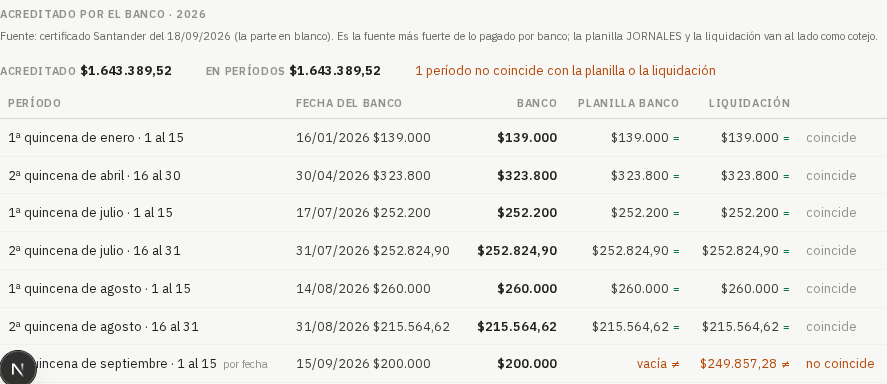
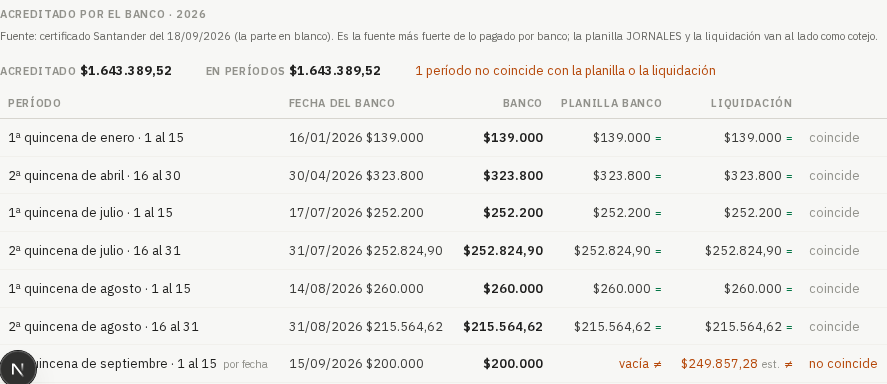
haberes: la final con un BANCO anterior sin acreditar queda a confirmar; las mutaciones ahora caen
Auditoría del 18/09 (D1): cuatro «finales» (Aguirre, Quiroga M. y Santander W.
el 09/04; Videla el 30/06) tenían en el último bloque de la planilla con BANCO
un giro que el banco nunca acreditó solo. La evidencia decía «ninguna fila de
BANCO lo explica» y era falsa. Regla nueva, en segunda pasada: si el último
bloque con BANCO anterior al pago no tiene acreditación propia, el pago puede
incluir esa quincena más la final → «a_confirmar» con la fila nombrada. No se
parte el importe: es decisión del dueño. Recargado: 127 filas, mismo total;
ahora 8 finales (548.871,86) y 8 a confirmar (2.377.208,44).

Siete mutaciones que sobrevivían tienen test que las hace caer: tolerancia «al
peso» (lib y pantalla), control de cantidad de verificarTotal, persona_id de la
persona hallada, borrado de la carga vieja (pg-test contra la base real dentro
de una transacción, porque la base falsa no lee el SQL), CUIL repetido en el
padrón, validación de la fecha del CSV y lote que contaba mensuales.

Pantalla: la cifra de la liquidación que la Retribución muestra como estimada
lleva «est.» también en el bloque del banco. El cargador lee la base en serie:
una conexión por vez.

diff --git a/echegaray-os/tests/haberes-banco-legajo.spec.ts b/echegaray-os/tests/haberes-banco-legajo.spec.ts
@@ -4,10 +4,12 @@
 // (`datos/haberes/…csv`, que suma el IMPORTE TOTAL del pie), no de la tabla que la pantalla lee. Si el
 // cargador perdiera, duplicara o reasignara una acreditación, esto se pone rojo.
 //
-// Cuatro legajos: un jornalero activo con muchos pagos (Agüero), un jefe de obra mensual (Maldonado), un
-// inactivo con liquidación final y sin línea de liquidación en su final (Santander Walter) y un inactivo
-// sin fecha de egreso con un pago «a confirmar» (Navarro). Ninguna de las 32 personas falta en el padrón,
-// así que no hay legajo de «fuera del padrón» que abrir: eso lo prueba el test del cargador.
+// Cinco legajos: un jornalero activo con muchos pagos (Agüero, con la 1ª de septiembre estimada en la
+// Liquidación), un jefe de obra mensual (Maldonado), un inactivo con liquidación final (Bazán), un inactivo
+// cuyo pago único quedó «a confirmar» porque el último bloque con BANCO no tiene acreditación propia
+// (Santander Walter, D1 de la auditoría del 18/09) y un inactivo sin fecha de egreso con un pago «a confirmar»
+// (Navarro). Ninguna de las 32 personas falta en el padrón, así que no hay legajo de «fuera del padrón» que
+// abrir: eso lo prueba el test del cargador.
 import { test, expect } from '@playwright/test'
 import { readFileSync, mkdirSync } from 'node:fs'
 import { ADMIN, JEFE, servicio, entrar, pedir } from './util/identidades'
@@ -27,10 +29,11 @@ const pesos = (c: number): string => {
 const fechaCorta = (iso: string) => `${iso.slice(8, 10)}/${iso.slice(5, 7)}/${iso.slice(0, 4)}`
 
 const CASOS = [
-  { cuil: '20294271067', archivo: 'aguero-jornalero-activo', finales: 0, aConfirmar: 0 },
-  { cuil: '20359232668', archivo: 'maldonado-jefe-mensual', finales: 0, aConfirmar: 0 },
-  { cuil: '20258303939', archivo: 'santander-inactivo-final', finales: 1, aConfirmar: 0 },
-  { cuil: '20399947511', archivo: 'navarro-inactivo-a-confirmar', finales: 0, aConfirmar: 1 },
+  { cuil: '20294271067', archivo: 'aguero-jornalero-activo', finales: 0, aConfirmar: 0, estimadas: 1 },
+  { cuil: '20359232668', archivo: 'maldonado-jefe-mensual', finales: 0, aConfirmar: 0, estimadas: 0 },
+  { cuil: '20380773091', archivo: 'bazan-inactivo-final', finales: 1, aConfirmar: 0, estimadas: 0 },
+  { cuil: '20258303939', archivo: 'santander-inactivo-a-confirmar-d1', finales: 0, aConfirmar: 1, estimadas: 0 },
+  { cuil: '20399947511', archivo: 'navarro-inactivo-a-confirmar', finales: 0, aConfirmar: 1, estimadas: 0 },
 ]
 
 test.describe('legajo · acreditado por el banco', () => {
@@ -71,6 +74,16 @@ test.describe('legajo · acreditado por el banco', () => {
       }
       await expect(page.getByTestId('haberes-banco-finales-fila')).toHaveCount(caso.finales)
       await expect(page.getByTestId('haberes-banco-a-confirmar-fila')).toHaveCount(caso.aConfirmar)
+      // La liquidación estimada se rotula «est.» como en la tabla de arriba (Agüero, 1ª de septiembre): cada
+      // fila del bloque con «est.» tiene su fila de Retribución con «est.». No al revés: la tabla de arriba
+      // también estima quincenas que el banco todavía no pagó, y ésas no están en el bloque.
+      const est = page.getByTestId('haberes-banco-liquidacion-est')
+      await expect(est).toHaveCount(caso.estimadas)
+      for (const celda of await est.all()) {
+        const desde = await celda.locator('xpath=ancestor::tr').getAttribute('data-desde')
+        const arriba = page.getByTestId('retribucion-fila').filter({ has: page.locator(`a[href$="quincena=${desde}"]`) })
+        await expect(arriba, `la fila ${desde} de Retribución no dice «est.»`).toContainText('est.')
+      }
 
       await bloque.scrollIntoViewIfNeeded()
       await bloque.screenshot({ path: `qa-shots/haberes-banco/${caso.archivo}.png` })

diff --git a/echegaray-os/src/features/administracion/services/haberesDelBanco.test.ts b/echegaray-os/src/features/administracion/services/haberesDelBanco.test.ts
@@ -1,6 +1,6 @@
 import { test } from 'node:test'
 import assert from 'node:assert/strict'
-import { armarHaberesDelBanco, rotuloDelPeriodo, type AcreditacionDelBanco } from './haberesDelBanco.ts'
+import { alPeso, armarHaberesDelBanco, conLiquidacionEstimada, rotuloDelPeriodo, type AcreditacionDelBanco } from './haberesDelBanco.ts'
 
 // LOS DEFECTOS QUE ESTOS TESTS ATRAPAN:
 //  1. Que la final se sume a una quincena (regla del dueño: no se considera).
@@ -92,4 +92,42 @@ test('sin permiso no hay filas ni totales, y la bandera lo dice', () => {
 test('a confirmar no entra a ningún período', () => {
   const h = armarHaberesDelBanco({ puedeVer: true, anio: 2026, acreditaciones: [A('2026-08-13', 239790.94, 'a_confirmar', null, null, null)], planilla: [], liquidacion: [] })
   assert.equal(h.periodos.length, 0); assert.equal(h.aConfirmar.length, 1); assert.equal(h.totales.aConfirmar, 239790.94)
+})
+
+test('mutación: «al peso» en la pantalla es menos de un peso, no mil', () => {
+  assert.equal(alPeso(1113592.21, 1113592), true)
+  assert.equal(alPeso(152000, 152500), false)
+  assert.equal(alPeso(200000, 201000), false)
+  const h = armarHaberesDelBanco({
+    puedeVer: true, anio: 2026,
+    acreditaciones: [A('2026-01-16', 152000, 'quincena', '2026-01-01', '2026-01-15')],
+    planilla: [{ pestana: 'Obreros 26', quincenaDesde: '2026-01-05', quincenaHasta: '2026-01-15', porBanco: 152500, yaTransferido: null }],
+    liquidacion: [],
+  })
+  assert.equal(h.periodos[0].contraPlanilla, 'difiere')
+})
+
+test('la liquidación estimada se rotula: la quincena por su desde, el mes por cualquiera de sus quincenas', () => {
+  const h = armarHaberesDelBanco({
+    puedeVer: true, anio: 2026,
+    acreditaciones: [
+      A('2026-09-15', 200000, 'quincena', '2026-09-01', '2026-09-15', 'regla_fecha'),
+      A('2026-08-31', 215564.62, 'quincena', '2026-08-16', '2026-08-31'),
+    ],
+    planilla: [],
+    liquidacion: [{ desde: '2026-09-01', hasta: '2026-09-15', porBanco: 0, pagadoBanco: 249857.28 },
+      { desde: '2026-08-16', hasta: '2026-08-31', porBanco: 215564.62, pagadoBanco: 215564.62 }],
+    estimadas: ['2026-09-01'],
+  })
+  assert.deepEqual(h.periodos.map((x) => [x.desde, x.liquidacionEstimada]), [['2026-08-16', false], ['2026-09-01', true]])
+  const sinLiq = conLiquidacionEstimada({ ...h, periodos: h.periodos.map((x) => ({ ...x, liquidacion: null })) }, ['2026-09-01'])
+  assert.equal(sinLiq.periodos[1].liquidacionEstimada, false, 'sin cifra no hay nada que rotular')
+  const mes = armarHaberesDelBanco({
+    puedeVer: true, anio: 2026,
+    acreditaciones: [A('2026-07-31', 1365843.84, 'sueldo_mensual', '2026-07-01', '2026-07-31')],
+    planilla: [{ pestana: 'Oficina 26', quincenaDesde: '2026-07-16', quincenaHasta: '2026-07-31', porBanco: 1365000, yaTransferido: null }],
+    liquidacion: [{ desde: '2026-07-16', hasta: '2026-07-31', porBanco: 1365000, pagadoBanco: null }],
+    estimadas: ['2026-07-16'],
+  })
+  assert.equal(mes.periodos[0].liquidacionEstimada, true)
 })

diff --git a/echegaray-os/src/features/administracion/services/haberesDelBanco.ts b/echegaray-os/src/features/administracion/services/haberesDelBanco.ts
@@ -70,6 +70,8 @@ export interface PeriodoDelBanco {
   liquidacion: number | null
   contraPlanilla: Cotejo
   contraLiquidacion: Cotejo
+  /** La cifra de la liquidación de este período es un neto ESTIMADO (la tabla de Retribución lo rotula «est.»). */
+  liquidacionEstimada: boolean
   /** Alguna de las dos fuentes dice otra cosa que el banco. La pantalla lo marca; no elige. */
   difiere: boolean
   /** Alguna acreditación salió de la regla de fecha y no de una coincidencia al peso. */
@@ -115,12 +117,24 @@ function cotejar(banco: number, otro: number | null): Cotejo {
   return alPeso(banco, otro) ? 'coincide' : 'difiere'
 }
 
+/** ¿La liquidación de este período es un estimado? Un mes lo es si alguna de sus quincenas lo es. */
+export function liquidacionEstimada(x: { desde: string; tipo: 'quincena' | 'mes' }, estimadas: readonly string[]): boolean {
+  return x.tipo === 'mes' ? estimadas.some((d) => d.slice(0, 7) === x.desde.slice(0, 7)) : estimadas.includes(x.desde)
+}
+
+/** Marca `liquidacionEstimada` sobre un resultado ya armado, cuando las quincenas estimadas se conocen después. */
+export function conLiquidacionEstimada(h: HaberesDelBanco, estimadas: readonly string[]): HaberesDelBanco {
+  return { ...h, periodos: h.periodos.map((x) => ({ ...x, liquidacionEstimada: x.liquidacion != null && liquidacionEstimada(x, estimadas) })) }
+}
+
 export function armarHaberesDelBanco(p: {
   puedeVer: boolean
   anio: number
   acreditaciones: readonly AcreditacionDelBanco[]
   planilla: readonly FilaDePlanilla[]
   liquidacion: readonly LineaDeLiquidacion[]
+  /** `desde` de las quincenas cuyo banco la Retribución muestra como estimado (`bancoEstimado`). */
+  estimadas?: readonly string[]
   errores?: string[]
 }): HaberesDelBanco {
   const vacio = { acreditado: 0, periodos: 0, finales: 0, aConfirmar: 0, diferencias: 0 }
@@ -173,6 +187,7 @@ export function armarHaberesDelBanco(p: {
         desde: x.desde, hasta: x.hasta, tipo: mensual ? 'mes' as const : 'quincena' as const,
         acreditaciones: x.acreditaciones.sort((a, b) => a.fecha.localeCompare(b.fecha)),
         banco, planilla, liquidacion, contraPlanilla, contraLiquidacion,
+        liquidacionEstimada: liquidacion != null && liquidacionEstimada({ desde: x.desde, tipo: mensual ? 'mes' : 'quincena' }, p.estimadas ?? []),
         difiere: contraPlanilla === 'difiere' || contraLiquidacion === 'difiere',
         porRegla: x.acreditaciones.some((a) => a.confianza === 'regla_fecha'),
       }

diff --git a/echegaray-os/src/app/(main)/administracion/personas/[id]/page.tsx b/echegaray-os/src/app/(main)/administracion/personas/[id]/page.tsx
@@ -94,6 +94,7 @@ import { getRetribucionDelLegajo } from '@/features/administracion/services/retr
 import { RetribucionDelLegajo } from '@/features/administracion/components/RetribucionDelLegajo'
 import { getHaberesDelBanco } from '@/features/administracion/services/haberesDelBancoService'
 import { HaberesDelBanco } from '@/features/administracion/components/HaberesDelBanco'
+import { conLiquidacionEstimada } from '@/features/administracion/services/haberesDelBanco'
 import { puedeAnotar, veAnotaciones } from '@/features/administracion/services/anotacionesPersona'
 import { getAnotaciones } from '@/features/administracion/services/anotacionesService'
 import { crearAnotacion } from '@/features/administracion/services/anotacionesActions'
@@ -200,7 +201,9 @@ export default async function FichaPersonaPage({
   // —le pregunta a la Liquidación quincena por quincena— y no se paga en las otras seis vistas.
   // LO QUE EL BANCO CERTIFICA QUE LE PAGÓ (dueño, 18/09/2026) va en la misma solapa, con la misma puerta y en
   // paralelo: no depende del plantel de ninguna quincena, así que un inactivo sin línea de liquidación lo ve igual.
-  const [retribucion, haberesBanco] = vista === 'retribucion' && liquida
+  // Las dos lecturas en paralelo; el bloque del banco recibe después qué quincenas tienen el neto ESTIMADO
+  // (lo sabe la Retribución) para rotular «est.» la cifra de la liquidación igual que la tabla de arriba.
+  const [retribucion, haberesBancoCrudo] = vista === 'retribucion' && liquida
     ? await Promise.all([
       getRetribucionDelLegajo(supabase, {
         personaId: id, cuil: persona.cuil ?? null, puedeVer: true, anio: Number(hoy.slice(0, 4)), hoy,
@@ -208,6 +211,9 @@ export default async function FichaPersonaPage({
       getHaberesDelBanco(supabase, { personaId: id, puedeVer: true, anio: Number(hoy.slice(0, 4)) }),
     ])
     : [null, null]
+  const haberesBanco = haberesBancoCrudo && retribucion
+    ? conLiquidacionEstimada(haberesBancoCrudo, retribucion.filas.filter((f) => f.bancoEstimado).map((f) => f.desde))
+    : haberesBancoCrudo
   // LAS HH TAMBIÉN EN EL RESUMEN, desde el canónico 20: la tira de métricas publica HH del mes y del
   // año, y el bloque de arriba dibuja la semana. La consulta filtra por `persona_id`, así que es la
   // de UNA persona y no la tabla entera; las otras cuatro solapas siguen sin pagarla.

diff --git a/echegaray-os/src/features/administracion/components/HaberesDelBanco.tsx b/echegaray-os/src/features/administracion/components/HaberesDelBanco.tsx
@@ -29,15 +29,19 @@ function Celda({ children, izquierda = false, fuerte = false, title, tono, testi
   )
 }
 
-function Comparado({ valor, cotejo, banco, testid }: { valor: number | null; cotejo: Cotejo; banco: number; testid: string }) {
+function Comparado({ valor, cotejo, banco, testid, estimado = false }: {
+  valor: number | null; cotejo: Cotejo; banco: number; testid: string; estimado?: boolean
+}) {
   const titulo = cotejo === 'coincide' ? 'coincide con el banco'
     : cotejo === 'difiere'
       ? (valor == null || valor === 0 ? `vacía: el banco acreditó ${pesos(banco)}`
         : `difiere del banco en ${pesos(Math.round((banco - valor) * 100) / 100)}`)
       : undefined
   return (
-    <Celda testid={testid} title={titulo} tono={cotejo === 'difiere' ? V.warn : undefined}>
+    <Celda testid={testid} title={estimado ? `${titulo ? titulo + ' · ' : ''}neto estimado: todavía no hay recibo real de este período` : titulo}
+      tono={cotejo === 'difiere' ? V.warn : undefined}>
       {valor == null || valor === 0 ? 'vacía' : pesos(valor)}
+      {estimado && <span data-testid="haberes-banco-liquidacion-est" style={{ marginLeft: 4, fontSize: '11px', color: V.tenue }}>est.</span>}
       {cotejo === 'coincide' && <span style={{ marginLeft: 4, fontSize: '11px', color: V.pos }}>=</span>}
       {cotejo === 'difiere' && <span style={{ marginLeft: 4, fontSize: '11px' }}>≠</span>}
     </Celda>
@@ -59,7 +63,7 @@ function FilaDelPeriodo({ x }: { x: PeriodoDelBanco }) {
       </Celda>
       <Celda fuerte testid="haberes-banco-importe">{x.acreditaciones.length ? pesos(x.banco) : '—'}</Celda>
       <Comparado testid="haberes-banco-planilla" valor={x.planilla} cotejo={x.contraPlanilla} banco={x.banco} />
-      <Comparado testid="haberes-banco-liquidacion" valor={x.liquidacion} cotejo={x.contraLiquidacion} banco={x.banco} />
+      <Comparado testid="haberes-banco-liquidacion" valor={x.liquidacion} cotejo={x.contraLiquidacion} banco={x.banco} estimado={x.liquidacionEstimada} />
       <Celda izquierda tono={x.difiere ? V.warn : V.tenue} testid="haberes-banco-estado">
         {x.difiere ? 'no coincide' : 'coincide'}
       </Celda>

diff --git a/echegaray-os/src/features/administracion/services/haberesDelBancoService.ts b/echegaray-os/src/features/administracion/services/haberesDelBancoService.ts
@@ -19,7 +19,7 @@ const numero = (v: unknown): number | null =>
 const fecha = (v: unknown): string => String(v ?? '').slice(0, 10)
 
 export async function getHaberesDelBanco(
-  supabase: SupabaseClient, p: { personaId: string; puedeVer: boolean; anio: number },
+  supabase: SupabaseClient, p: { personaId: string; puedeVer: boolean; anio: number; estimadas?: readonly string[] },
 ): Promise<HaberesDelBanco> {
   if (!p.puedeVer) return armarHaberesDelBanco({ puedeVer: false, anio: p.anio, acreditaciones: [], planilla: [], liquidacion: [] })
   const desde = `${p.anio}-01-01`
@@ -64,5 +64,5 @@ export async function getHaberesDelBanco(
     if (!q?.desde || !q.hasta) return []
     return [{ desde: fecha(q.desde), hasta: fecha(q.hasta), porBanco: numero(f.por_banco), pagadoBanco: numero(f.pagado_banco) }]
   })
-  return armarHaberesDelBanco({ puedeVer: true, anio: p.anio, acreditaciones, planilla, liquidacion, errores })
+  return armarHaberesDelBanco({ puedeVer: true, anio: p.anio, acreditaciones, planilla, liquidacion, estimadas: p.estimadas, errores })
 }
